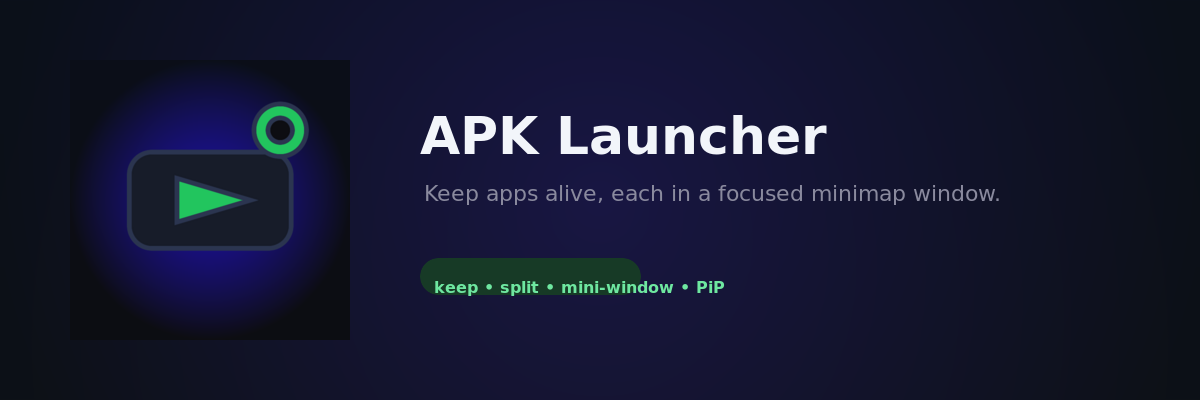
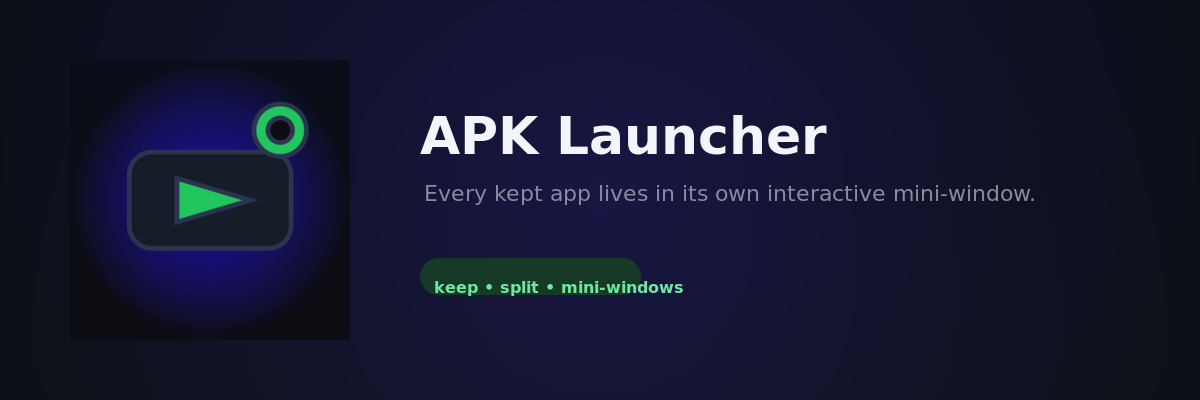
Apps in interactive mini-windows (drop launcher PiP)
- Apps (not the launcher) can be used in small interactive freeform windows
  showing the full UI; tapping inside never expands them to fullscreen
- 'пин' now opens the app in a mini-window immediately and keeps relaunching
  it in mini mode; 'мини' opens any app in a mini-window ad hoc
- 'все мини' tile opens every kept app cascade-style into separate mini-windows
- freeform requested via setLaunchBounds + hidden setLaunchWindowingMode
  (graceful fallback where system has no freeform)
- launcher PiP button, PiP code and manifest flag removed per request

Changed region(s): [[0.3392, 0.45, 0.8633, 0.51], [0.555, 0.69, 0.6167, 0.75]]

diff --git a/android/app/src/main/java/dev/apk/launcher/MainActivity.kt b/android/app/src/main/java/dev/apk/launcher/MainActivity.kt
@@ -2,22 +2,18 @@ package dev.apk.launcher
 
 import android.Manifest
 import android.app.ActivityOptions
-import android.app.PendingIntent
-import android.app.PictureInPictureParams
 import android.content.Intent
 import android.content.pm.PackageManager
 import android.graphics.Color
 import android.graphics.Rect
 import android.graphics.Typeface
 import android.graphics.drawable.Drawable
-import android.graphics.drawable.Icon
 import android.os.Build
 import android.os.Bundle
 import android.os.Handler
 import android.os.Looper
 import android.text.Editable
 import android.text.TextWatcher
-import android.util.Rational
 import android.view.Gravity
 import android.view.View
 import android.view.ViewGroup
@@ -94,39 +90,14 @@ class MainActivity : ComponentActivity() {
     }
 
     override fun onPause() {
-        // В PiP лаунчер остаётся видимым и «живым»: не останавливаем refresh.
-        if (!isInPictureInPictureMode) handler.removeCallbacks(refresh)
-        super.onPause()
-    }
-
-    override fun onStop() {
         handler.removeCallbacks(refresh)
-        super.onStop()
+        super.onPause()
     }
 
     override fun onDestroy() {
         handler.removeCallbacks(refresh)
         super.onDestroy()
     }
-
-    @Suppress("DEPRECATION")
-    override fun onPictureInPictureModeChanged(isInPictureInPictureMode: Boolean) {
-        super.onPictureInPictureModeChanged(isInPictureInPictureMode)
-        if (isInPictureInPictureMode) {
-            pipHiddenBar = updateBar.visibility
-            pipHiddenPanel = processPanel.visibility
-            updateBar.visibility = View.GONE
-            processPanel.visibility = View.GONE
-        } else {
-            updateBar.visibility = pipHiddenBar
-            updateProcessPane()
-            handler.removeCallbacks(refresh)
-            handler.post(refresh)
-        }
-    }
-
-    private var pipHiddenBar = View.GONE
-    private var pipHiddenPanel = View.GONE
 
     private fun maybeRequestNotifPermission() {
         if (Build.VERSION.SDK_INT >= Build.VERSION_CODES.TIRAMISU &&
@@ -184,20 +155,6 @@ class MainActivity : ComponentActivity() {
         vlp.setMargins(dp(10), 0, 0, 0)
         versionTv.layoutParams = vlp
         titleRow.addView(versionTv)
-        titleRow.addView(View(this), LinearLayout.LayoutParams(0, 0, 1f))
-        val pipBtn = Button(this)
-        pipBtn.text = "PiP"
-        pipBtn.textSize = 12f
-        pipBtn.isAllCaps = false
-        pipBtn.minimumWidth = 0
-        pipBtn.minimumHeight = 0
-        pipBtn.setTextColor(Color.parseColor("#22c55e"))
-        pipBtn.setBackgroundResource(R.drawable.pill_keep_on)
-        val pipLp = LinearLayout.LayoutParams(ViewGroup.LayoutParams.WRAP_CONTENT, ViewGroup.LayoutParams.WRAP_CONTENT)
-        pipLp.setMargins(dp(6), 0, 0, 0)
-        pipBtn.layoutParams = pipLp
-        pipBtn.setOnClickListener { enterPip() }
-        titleRow.addView(pipBtn)
         header.addView(titleRow)
 
         updateBar = vBox()
@@ -268,8 +225,8 @@ class MainActivity : ComponentActivity() {
 
         val statSplit = statColumn()
         statSplitNum = statsNum(statSplit)
-        statsLabel(statSplit, "в окна")
-        statSplit.setOnClickListener { openKeptInWindows() }
+        statsLabel(statSplit, "все мини")
+        statSplit.setOnClickListener { openKeptInMiniWindows() }
         keepbar.addView(statSplit)
         root.addView(keepbar)
 
@@ -529,23 +486,51 @@ class MainActivity : ComponentActivity() {
     }
 
     private fun launchMini(pkg: String) {
+        launchMini(pkg, 0)
+    }
+
+    private fun launchMini(pkg: String, offset: Int) {
         val ok = runCatching {
             val i = packageManager.getLaunchIntentForPackage(pkg) ?: return@runCatching false
             i.addFlags(Intent.FLAG_ACTIVITY_NEW_TASK)
-            val opts = ActivityOptions.makeBasic().setLaunchBounds(miniBounds())
-            startActivity(i, opts.toBundle())
+            startActivity(i, miniWindowOptions(offset).toBundle())
             true
         }.getOrDefault(false)
         if (!ok) toast("Не удалось открыть $pkg в мини-окне")
     }
 
-    private fun miniBounds(): Rect {
+    private fun openKeptInMiniWindows() {
+        val pkgs = keptPkgs.sorted()
+        if (pkgs.isEmpty()) {
+            toast("Нет приложений на keep")
+            return
+        }
+        pkgs.forEachIndexed { idx, pkg -> launchMini(pkg, idx) }
+    }
+
+    private fun miniWindowOptions(offset: Int): ActivityOptions {
         val dm = resources.displayMetrics
         val w = (dm.widthPixels * 0.62f).toInt()
         val h = (dm.heightPixels * 0.6f).toInt()
-        val x = dm.widthPixels - w - dp(14)
-        val y = dm.heightPixels - h - dp(14)
-        return Rect(x, y, x + w, y + h)
+        val baseX = dm.widthPixels - w - dp(14)
+        val baseY = dm.heightPixels - h - dp(14)
+        val x = maxOf(0, baseX - offset * dp(28))
+        val y = maxOf(0, baseY - offset * dp(28))
+        return ActivityOptions.makeBasic().apply {
+            setLaunchBounds(Rect(x, y, x + w, y + h))
+            tryFreeform()
+        }
+    }
+
+    // Публичный путь — setLaunchBounds; бесплатно-оконный режим подключаем
+    // рефлексией (hide setLaunchWindowingMode), если система позволит.
+    private fun ActivityOptions.tryFreeform() {
+        runCatching {
+            ActivityOptions::class.java
+                .getMethod("setLaunchWindowingMode", Int::class.javaPrimitiveType)
+                .apply { isAccessible = true }
+                .invoke(this, WINDOWING_MODE_FREEFORM)
+        }
     }
 
     private fun togglePin(pkg: String) {
@@ -559,42 +544,7 @@ class MainActivity : ComponentActivity() {
         keeper.syncService()
         lastSig = ""
         renderCards()
-    }
-
-    private fun enterPip() {
-        if (Build.VERSION.SDK_INT >= Build.VERSION_CODES.O) {
-            runCatching {
-                val params = PictureInPictureParams.Builder().apply {
-                    setAspectRatio(Rational(1, 1))
-                    setActions(listOf(buildPipAction()))
-                }.build()
-                enterPictureInPictureMode(params)
-            }.onFailure {
-                toast("Не удалось свернуть в PiP")
-            }
-        } else {
-            toast("PiP доступен на Android 8.0+")
-        }
-    }
-
-    private fun buildPipAction(): android.app.RemoteAction {
-        val reopen = PendingIntent.getActivity(
-            this, 1, Intent(this, MainActivity::class.java),
-            PendingIntent.FLAG_UPDATE_CURRENT or PendingIntent.FLAG_IMMUTABLE,
-        )
-        val icon = Icon.createWithResource(this, android.R.drawable.ic_menu_rotate)
-        return android.app.RemoteAction(
-            icon, "Открыть", "Развернуть лаунчер", reopen,
-        )
-    }
-
-    private fun openKeptInWindows() {
-        val pkgs = keptPkgs.sorted()
-        if (pkgs.isEmpty()) {
-            toast("Нет приложений на keep")
-            return
-        }
-        for (p in pkgs) launchAdjacent(p)
+        if (pin) launchMini(clean)
     }
 
     private fun loadApps() {
@@ -718,5 +668,6 @@ class MainActivity : ComponentActivity() {
         const val PIN_EXTRA = "pin_pkgs"
         private const val REFRESH_MS = 2500L
         private const val MIN_CARD_WIDTH_DP = 150
+        private const val WINDOWING_MODE_FREEFORM = 5
     }
 }

diff --git a/android/app/src/main/java/dev/apk/launcher/KeepAliveService.kt b/android/app/src/main/java/dev/apk/launcher/KeepAliveService.kt
@@ -119,29 +119,36 @@ class KeepAliveService : Service() {
             val launch = packageManager.getLaunchIntentForPackage(pkg)
             if (launch != null) {
                 launch.addFlags(
-                    Intent.FLAG_ACTIVITY_NEW_TASK or
-                        Intent.FLAG_ACTIVITY_LAUNCH_ADJACENT or
-                        Intent.FLAG_ACTIVITY_RESET_TASK_IF_NEEDED
+                    Intent.FLAG_ACTIVITY_NEW_TASK or Intent.FLAG_ACTIVITY_RESET_TASK_IF_NEEDED
                 )
-                // «Пинованные» приложения поднимаем сразу в уменьшенном окне,
-                // чтобы не теряли фокус и не убивались фоном.
-                val opts = if (pkg in pinned) {
-                    android.app.ActivityOptions.makeBasic().setLaunchBounds(miniBounds())
+                if (pkg in pinned) {
+                    // «Пинованные» поднимаем сразу в интерактивном мини-окне
+                    // (весь экран приложения в уменьшенном виде, без потери фокуса).
+                    startActivity(launch, freeformOptions())
                 } else {
-                    android.app.ActivityOptions.makeBasic()
+                    launch.addFlags(Intent.FLAG_ACTIVITY_LAUNCH_ADJACENT)
+                    startActivity(launch)
                 }
-                startActivity(launch, opts.toBundle())
             }
         }
     }
 
-    private fun miniBounds(): Rect {
+    private fun freeformOptions(): android.os.Bundle {
         val dm = resources.displayMetrics
         val w = (dm.widthPixels * 0.62f).toInt()
         val h = (dm.heightPixels * 0.6f).toInt()
         val x = dm.widthPixels - w
         val y = dm.heightPixels - h
-        return Rect(x, y, x + w, y + h)
+        val opts = android.app.ActivityOptions.makeBasic().apply {
+            setLaunchBounds(Rect(x, y, x + w, y + h))
+            runCatching {
+                android.app.ActivityOptions::class.java
+                    .getMethod("setLaunchWindowingMode", Int::class.javaPrimitiveType)
+                    .apply { isAccessible = true }
+                    .invoke(this, WINDOWING_MODE_FREEFORM)
+            }
+        }
+        return opts.toBundle()
     }
 
     private fun createChannel() {
@@ -199,5 +206,6 @@ class KeepAliveService : Service() {
         private const val NOTIF_ID = 7
         private const val WATCH_INTERVAL_MS = 2000L
         private const val RELAUNCH_MIN_GAP_MS = 15000L
+        private const val WINDOWING_MODE_FREEFORM = 5
     }
 }

diff --git a/README.md b/README.md
@@ -20,15 +20,13 @@
 - Панель живых процессов с keep/запустить прямо из списка.
 - Foreground-сервис с частичным wake lock и ватчдогом (проверка каждые 2 с).
 - **Мультиоконность**: кнопка «окно» на каждой карточке/процессе открывает
-  приложение в соседнем окне (split-screen), «сплит» — открывает все приложения
-  из keep в отдельных окнах разом; лаунчер при этом остаётся в другой половине
-  экрана (`resumeWhilePausing`).
-- **Мини-окна (PiP-подобно)**: тумблер «пин» держит приложение в уменьшенном
-  свободном окне (launch bounds) — фокус не теряется и фон его не убивает;
-  «мини» открывает приложение сразу маленьким окном, watchdog поднимает
-  «пялированные» тоже в мини-окно.
-- **PiP для лаунчера**: кнопка «PiP» сворачивает сам лаунчер в плавающее окно —
-  keep-alive и автообновление продолжают работать, пока поверх другие окна.
+  приложение в соседнем окне (split-screen); лаунчер при этом остаётся в другой
+  половине экрана (`resumeWhilePausing`).
+- **Мини-окна для приложений**: тумблер «пин» сразу открывает приложение в
+  интерактивном уменьшенном окне (весь UI, можно работать внутри — тап не
+  разворачивает на весь экран) и держит его так же при авто-подъёме; «мини» —
+  открыть любое приложение маленьким окном, «все мини» — все приложения на keep
+  сразу каскадом в отдельных мини-окнах.
 - Панель обновлений: приложение сверяет версию с GitHub Releases и предлагает
   установить новую.
 - Автономное обновление ключа версии: `versionName` берётся из последнего git-тега,
@@ -65,7 +63,7 @@ git push origin main --tags
 ## Что делает приложение
 
 - `MainActivity` — поиск, сетка карточек, тумблер keep/pin, панель процессов,
-  мультиоконный и мини-оконный запуск, PiP лаунчера, автообновление каждые
+  мультиоконный и мини-оконный запуск, автообновление каждые
   2.5 с, проверка обновлений при запуске.
 - `AppKeeper` — хранит списки «держимых» и «пинованных» пакетов в
   SharedPreferences и синхронизирует foreground-сервис.
@@ -82,7 +80,9 @@ git push origin main --tags
   foreground-сервис типа `specialUse` с удержанием wake lock — полноценная
   борьба с фоном всё равно возможна только при видимом уведомлении.
 - На Android 13+ запрашивается разрешение `POST_NOTIFICATIONS`.
-- Мини-окна (`setLaunchBounds`) раскрываются в свободное окно на системах с
-  поддержкой freeform (планшеты, десктоп-режим, Android 15+ с несколькими
-  окнами); на обычных телефонах они мягко сводятся к обычному запуску, а
-  стабильный удержанный фокус даёт PiP-режим лаунчера.
+- Мини-окна (`setLaunchBounds` + скрытый freeform-режим) раскрываются в
+  интерактивные свободные окна на системах с поддержкой freeform (планшеты,
+  десктоп-режим, Android 15+ с несколькими окнами); на обычных телефонах без
+  freeform они мягко сводятся к обычному запуску окна. Android не даёт
+  сторонним приложениям уходить в системный PiP, поэтому именно freeform —
+  единственный путь к «приложению в маленьком интерактивном окне».
